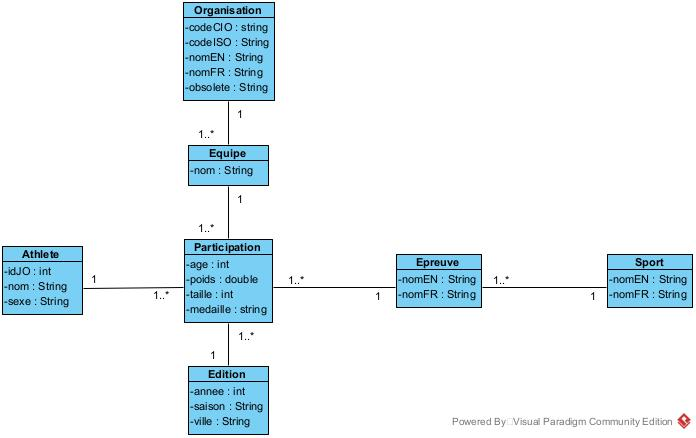
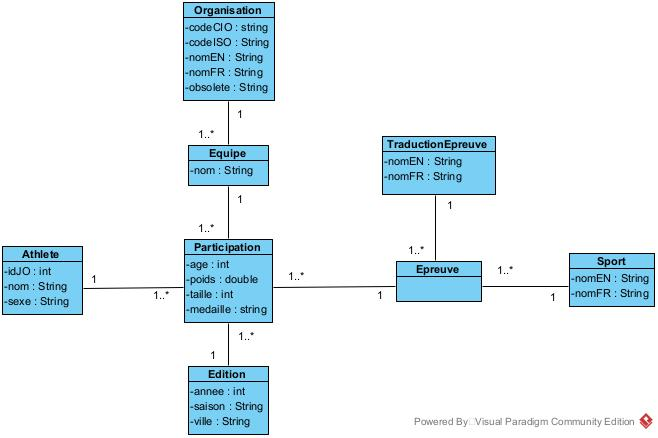
Création de la classe TraductionEpreuve et de sa DAO + correction des autres classes en accord

diff --git a/src/main/java/fr/diginamic/dao/EpreuveDAO.java b/src/main/java/fr/diginamic/dao/EpreuveDAO.java
@@ -5,6 +5,7 @@ import java.util.List;
 import javax.persistence.EntityManager;
 import javax.persistence.TypedQuery;
 
+import fr.diginamic.entites.TraductionEpreuve;
 import fr.diginamic.entites.Epreuve;
 import fr.diginamic.entites.Sport;
 
@@ -16,50 +17,37 @@ import fr.diginamic.entites.Sport;
 public class EpreuveDAO {
 
 	/**
-	 * Permet d'ajouter une épreuve dans la base à partir de son nom anglais et de son nom français
+	 * Permet d'ajouter une  épreuve dans la base à partir de sa traduction et de son sport
 	 * @param em : l'entityManager
-	 * @param nomEN : nom en anglais de l'épreuve
-	 * @param nomFR : nom en français de l'épreuve
+	 * @param traduction : la traduction du nom de l'épreuve
+	 * @param sport : le sport de l'épreuve
 	 * @return l'épreuve qui vient d'être créée
 	 */
-	public static Epreuve insert(EntityManager em, String nomEN, String nomFR) {
+	public static Epreuve insert(EntityManager em, TraductionEpreuve traduction, Sport sport) {
 		Epreuve e = new Epreuve();
-		e.setNomEN(nomEN);
-		if (nomFR != null) {
-			e.setNomFR(nomFR);
-		}
+		e.setTraduction(traduction);
+		e.setSport(sport);
 		em.persist(e);
-		e = getByNomEN(em, nomEN);
+		e = getByTraductionEtSport(em, traduction, sport);
 		return e;
 	}
 	
 	/** 
-	 * Permet de récupérer une épreuve dans la base à partir de son nom anglais
+	 * Permet de récupérer une épreuve dans la base à partir de sa traduction et de son sport
 	 * @param em : l'entityManager
-	 * @param nomEN : le nom de l'épreuve en anglais
+	 * @param traduction : la traduction du nom de l'épreuve
+	 * @param sport : le sport de l'épreuve
 	 * @return l'épreuve ou null si elle n'existe pas
 	 */
-	public static Epreuve getByNomEN(EntityManager em, String nomEN) {
-		TypedQuery<Epreuve> query = em.createQuery("SELECT e FROM Epreuve e WHERE e.nomEN=:param", Epreuve.class);
-		query.setParameter("param", nomEN);
+	public static Epreuve getByTraductionEtSport(EntityManager em, TraductionEpreuve traduction, Sport sport) {
+		TypedQuery<Epreuve> query = em.createQuery("SELECT e FROM Epreuve e WHERE e.traduction=:param1 AND e.sport=:param2", Epreuve.class);
+		query.setParameter("param1", traduction);
+		query.setParameter("param2", sport);
 		List<Epreuve> epreuves = query.getResultList();
 		if (epreuves.size()>0) {
 			return epreuves.get(0);
 		}
 		return null;
-	}
-	
-	/** 
-	 * Permet de mettre à jour le sport associé à l'épreuve
-	 * @param em : l'entityManager
-	 * @param nomEpreuve : le nom de l'épreuve en anglais
-	 * @param sport : le sport à mettre à jour
-	 */
-	public static void setSport(EntityManager em, String nomEpreuve, Sport sport) {
-		Epreuve epreuve = new Epreuve();
-		epreuve = getByNomEN(em, nomEpreuve);
-		epreuve.setSport(sport);
-		em.persist(epreuve);
 	}
 	
 }

diff --git a/src/main/java/fr/diginamic/entites/Epreuve.java b/src/main/java/fr/diginamic/entites/Epreuve.java
@@ -14,7 +14,7 @@ import javax.persistence.OneToMany;
 import javax.persistence.Table;
 
 /**
- * Représente une épreuve des JO avec son identifiant, son nom anglais, le sport correspondant et son nom français et la liste des participations des athlètes
+ * Représente une épreuve des JO avec son identifiant, le sport correspondant, la traduction du nom de l'épreuve et la liste des participations des athlètes
  * 
  * @author Marjory PRIN
  */
@@ -27,18 +27,15 @@ public class Epreuve {
 	@GeneratedValue(strategy = GenerationType.IDENTITY)
 	private int id;
 	
-	/** le nom de l'épreuve en anglais */
-	@Column(name = "NOM_EN", length = 100, nullable = false, unique = true)
-	private String nomEN;
-	
-	/** le nom de l'épreuve en français */
-	@Column(name = "NOM_FR", length = 100, nullable = true)
-	private String nomFR;
-	
 	/** le sport correspondant à l'épreuve */
 	@ManyToOne
 	@JoinColumn(name = "SPORT_ID")
 	private Sport sport;
+	
+	/** la traduction de l'épreuve*/
+	@ManyToOne
+	@JoinColumn(name = "TRADUCTION_EPREUVE_ID")
+	private TraductionEpreuve traduction;
 	
 	/** la liste des participations des athlètes à cette épreuve des JO */
 	@OneToMany(mappedBy = "epreuve")
@@ -52,14 +49,7 @@ public class Epreuve {
 
 	@Override
 	public String toString() {
-		String nomSport = sport.getNomEN();
-		if (sport.getNomFR() != null) {
-			nomSport = sport.getNomFR();
-		}
-		if (nomFR != null) {
-			return nomSport + " " + nomFR;
-		}
-		return nomSport + " " + nomEN;
+		return sport + " " + traduction;
 	}
 
 	/** Getter
@@ -77,34 +67,6 @@ public class Epreuve {
 	}
 
 	/** Getter
-	 * @return the nomEN
-	 */
-	public String getNomEN() {
-		return nomEN;
-	}
-
-	/** Setter
-	 * @param nomEN the nomEN to set
-	 */
-	public void setNomEN(String nomEN) {
-		this.nomEN = nomEN;
-	}
-
-	/** Getter
-	 * @return the nomFR
-	 */
-	public String getNomFR() {
-		return nomFR;
-	}
-
-	/** Setter
-	 * @param nomFR the nomFR to set
-	 */
-	public void setNomFR(String nomFR) {
-		this.nomFR = nomFR;
-	}
-
-	/** Getter
 	 * @return the sport
 	 */
 	public Sport getSport() {
@@ -116,6 +78,20 @@ public class Epreuve {
 	 */
 	public void setSport(Sport sport) {
 		this.sport = sport;
+	}
+
+	/** Getter
+	 * @return the traduction
+	 */
+	public TraductionEpreuve getTraduction() {
+		return traduction;
+	}
+
+	/** Setter
+	 * @param traduction the traduction to set
+	 */
+	public void setTraduction(TraductionEpreuve traduction) {
+		this.traduction = traduction;
 	}
 
 	/** Getter
@@ -131,6 +107,5 @@ public class Epreuve {
 	public void setParticipations(Set<Participation> participations) {
 		this.participations = participations;
 	}
-	
-	
+
 }

diff --git a/src/main/java/fr/diginamic/utils/EvenementsCsvUtils.java b/src/main/java/fr/diginamic/utils/EvenementsCsvUtils.java
@@ -12,20 +12,8 @@ import javax.persistence.Persistence;
 
 import org.apache.commons.lang3.math.NumberUtils;
 
-import fr.diginamic.dao.AthleteDAO;
-import fr.diginamic.dao.EditionDAO;
-import fr.diginamic.dao.EpreuveDAO;
-import fr.diginamic.dao.EquipeDAO;
-import fr.diginamic.dao.OrganisationDAO;
-import fr.diginamic.dao.ParticipationDAO;
-import fr.diginamic.dao.SportDAO;
-import fr.diginamic.entites.Athlete;
-import fr.diginamic.entites.Edition;
-import fr.diginamic.entites.Equipe;
-import fr.diginamic.entites.Epreuve;
-import fr.diginamic.entites.Sport;
-import fr.diginamic.entites.Organisation;
-import fr.diginamic.entites.Participation;
+import fr.diginamic.dao.*;
+import fr.diginamic.entites.*;
 
 /** 
  * Permet de lire le fichier evenements.csv et de remplir la base de donnée JO associée
@@ -54,7 +42,7 @@ public class EvenementsCsvUtils {
 			EntityTransaction transaction = em.getTransaction();
 			
 			// Traitement des lignes du fichier csv pour ajout dans la base
-			for (int i = ligneDebut; i<lignes.size(); i++) {
+			for (int i = ligneDebut; i<100; i++) {
 					
 				// Récupération des valeurs de chaque colonne de la ligne dans un tableau
 				String[] morceaux = lignes.get(i).split(";");
@@ -136,21 +124,21 @@ public class EvenementsCsvUtils {
 				edition = EditionDAO.getByAnneeEtSaison(em, annee, saison);
 				if (edition == null) {
 					edition = EditionDAO.insert(em, annee, saison, ville);
-				}				
+				}	
 				
 				// Insertion en base de l'épreuve si elle n'existe pas encore
-				Epreuve epreuve = new Epreuve();
+				TraductionEpreuve traduction = new TraductionEpreuve();
 				if (nomEpreuve.startsWith(nomSport)) {
 					nomEpreuve = nomEpreuve.replace(nomSport + " ", "");
-				}
-				epreuve = EpreuveDAO.getByNomEN(em, nomEpreuve);
+				} 
+				traduction = TraductionEpreuveDAO.getByNomEN(em, nomEpreuve);
 				Sport sport = new Sport();
 				sport = SportDAO.getByNomEN(em, nomSport);
+				Epreuve epreuve = new Epreuve();
+				epreuve = EpreuveDAO.getByTraductionEtSport(em, traduction, sport);
 				if (epreuve == null) {
-					epreuve = EpreuveDAO.insert(em, nomEpreuve, null);
-				} else if (epreuve.getSport() == null) {
-					EpreuveDAO.setSport(em, nomEpreuve, sport);
-				}
+					epreuve = EpreuveDAO.insert(em, traduction, sport);
+				} 
 				
 				// Insertion en base de la participation
 				Participation participation = new Participation();

diff --git a/src/main/java/fr/diginamic/entites/TraductionEpreuve.java b/src/main/java/fr/diginamic/entites/TraductionEpreuve.java
@@ -8,37 +8,38 @@ import javax.persistence.Entity;
 import javax.persistence.GeneratedValue;
 import javax.persistence.GenerationType;
 import javax.persistence.Id;
+import javax.persistence.JoinColumn;
 import javax.persistence.OneToMany;
 import javax.persistence.Table;
 
 /**
- * Représente un sport aux JO avec son identifiant, son nom en anglais, son nom en français et la liste des épreuves de ce sport
+ * Représente une traduction d'une épreuve des JO avec son identifiant, son nom anglais,son nom français et la liste des épreuves associées
  * 
  * @author Marjory PRIN
  */
 @Entity
-@Table(name = "SPORT")
-public class Sport {
+@Table(name = "TRADUCTION_EPREUVE")
+public class TraductionEpreuve {
 
-	/** l'identifiant de l'athlète */
+	/** l'identifiant de l'épreuve */
 	@Id
 	@GeneratedValue(strategy = GenerationType.IDENTITY)
 	private int id;
 	
-	/** le nom en anglais du sport*/
-	@Column(name = "NOM_EN", length = 50, nullable = false, unique = true)
+	/** le nom de l'épreuve en anglais */
+	@Column(name = "NOM_EN", length = 100, nullable = false, unique = true)
 	private String nomEN;
 	
-	/** le nom en français du sport*/
-	@Column(name = "NOM_FR", length = 50, nullable = true)
+	/** le nom de l'épreuve en français */
+	@Column(name = "NOM_FR", length = 100, nullable = true)
 	private String nomFR;
 	
-	/** la liste des épreuves de ce sport */
-	@OneToMany(mappedBy = "sport")
+	/** la liste des épreuves associées */
+	@OneToMany(mappedBy = "traduction")
 	private Set<Epreuve> epreuves;
 	
 	/** Constructeur pour JPA */
-	public Sport() {
+	public TraductionEpreuve() {
 		super();
 		epreuves = new HashSet<Epreuve>();
 	}

diff --git a/src/main/java/fr/diginamic/utils/ListeEpreuveCsvUtils.java b/src/main/java/fr/diginamic/utils/ListeEpreuveCsvUtils.java
@@ -10,8 +10,8 @@ import javax.persistence.EntityManagerFactory;
 import javax.persistence.EntityTransaction;
 import javax.persistence.Persistence;
 
-import fr.diginamic.dao.EpreuveDAO;
-import fr.diginamic.entites.Epreuve;
+import fr.diginamic.dao.TraductionEpreuveDAO;
+import fr.diginamic.entites.TraductionEpreuve;
 
 /** 
  * Permet de lire le fichier liste_des_epreuves.csv et de remplir la base de donnée JO associée
@@ -21,7 +21,7 @@ import fr.diginamic.entites.Epreuve;
 public class ListeEpreuveCsvUtils {
 	
 	/**
-	 * Lit le contenu du fichier en paramètre contenant les données des épreuves des JO, transforme ces données au format attendu
+	 * Lit le contenu du fichier en paramètre contenant les données de traduction des épreuves des JO, transforme ces données au format attendu
 	 * et remplie la base de donnée JO en accordance
 	 * @param cheminFichier : le chemin d'accès du fichier sur le disque dur
 	 * @param ligneDebut : le numéro de ligne ou commencer à charger le fichier csv
@@ -51,12 +51,12 @@ public class ListeEpreuveCsvUtils {
 					nomFR = morceaux[1];
 				}
 				
-				// Insertion en base si le sport n'existe pas encore
+				// Insertion en base si l'épreuve n'existe pas encore
 				transaction.begin();
-				Epreuve epreuve = new Epreuve();
-				epreuve = EpreuveDAO.getByNomEN(em, morceaux[0]);
+				TraductionEpreuve epreuve = new TraductionEpreuve();
+				epreuve = TraductionEpreuveDAO.getByNomEN(em, morceaux[0]);
 				if (epreuve == null) {
-					EpreuveDAO.insert(em, nomEN, nomFR);
+					TraductionEpreuveDAO.insert(em, nomEN, nomFR);
 				}
 				transaction.commit();
 			}

diff --git a/src/main/java/fr/diginamic/dao/TraductionEpreuveDAO.java b/src/main/java/fr/diginamic/dao/TraductionEpreuveDAO.java
@@ -1,0 +1,52 @@
+package fr.diginamic.dao;
+
+import java.util.List;
+
+import javax.persistence.EntityManager;
+import javax.persistence.TypedQuery;
+
+import fr.diginamic.entites.TraductionEpreuve;
+import fr.diginamic.entites.Sport;
+
+/**
+ * DAO de la classe TraductionEpreuve
+ * 
+ * @author Marjory PRIN
+ */
+public class TraductionEpreuveDAO {
+
+	/**
+	 * Permet d'ajouter une traduction épreuve dans la base à partir de son nom anglais et de son nom français
+	 * @param em : l'entityManager
+	 * @param nomEN : nom en anglais de l'épreuve
+	 * @param nomFR : nom en français de l'épreuve
+	 * @return l'épreuve qui vient d'être créée
+	 */
+	public static TraductionEpreuve insert(EntityManager em, String nomEN, String nomFR) {
+		TraductionEpreuve e = new TraductionEpreuve();
+		e.setNomEN(nomEN);
+		if (nomFR != null) {
+			e.setNomFR(nomFR);
+		}
+		em.persist(e);
+		e = getByNomEN(em, nomEN);
+		return e;
+	}
+	
+	/** 
+	 * Permet de récupérer une traduction d'épreuve dans la base à partir de son nom anglais
+	 * @param em : l'entityManager
+	 * @param nomEN : le nom de l'épreuve en anglais
+	 * @return l'épreuve ou null si elle n'existe pas
+	 */
+	public static TraductionEpreuve getByNomEN(EntityManager em, String nomEN) {
+		TypedQuery<TraductionEpreuve> query = em.createQuery("SELECT t FROM TraductionEpreuve t WHERE t.nomEN=:param", TraductionEpreuve.class);
+		query.setParameter("param", nomEN);
+		List<TraductionEpreuve> epreuves = query.getResultList();
+		if (epreuves.size()>0) {
+			return epreuves.get(0);
+		}
+		return null;
+	}
+	
+}
